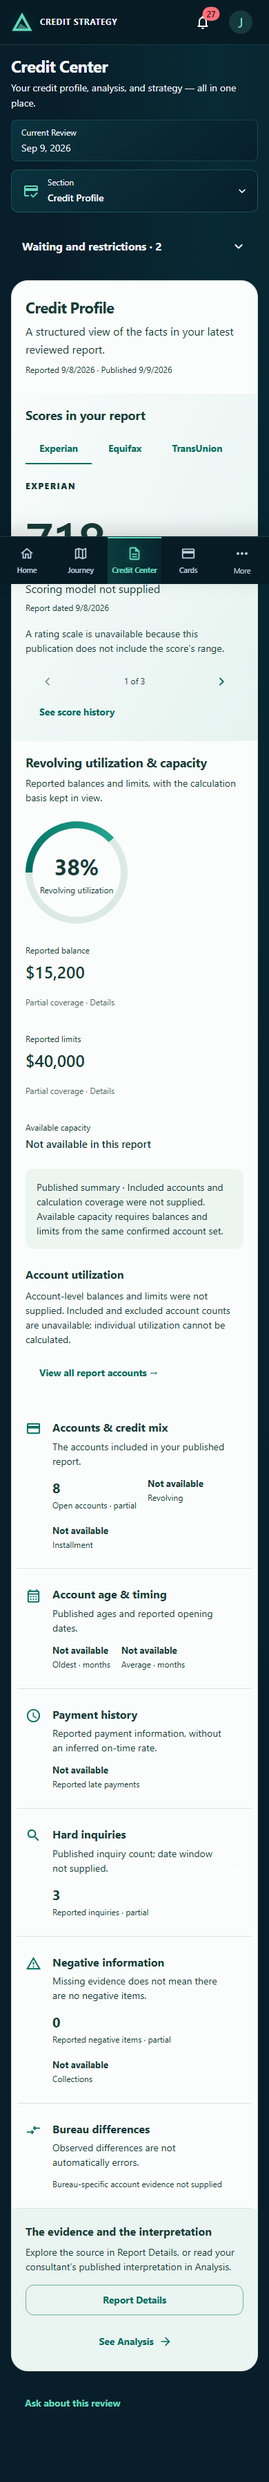
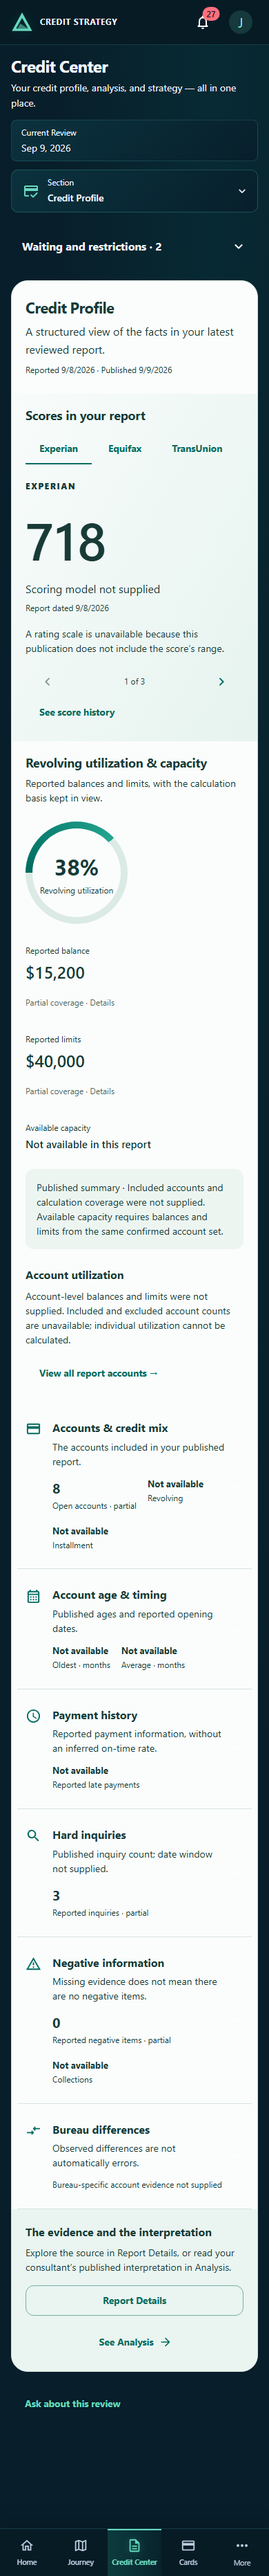
Record complete UI-F04 visual review evidence

diff --git a/docs/evidence/ui-credit-profile/README.md b/docs/evidence/ui-credit-profile/README.md
@@ -1,0 +1,50 @@
+# UI-F04 — Credit Profile implementation evidence
+
+Visual Review Status: READY FOR FINAL VISUAL REVIEW
+
+Branch: `ui/credit-profile`, created from approved `ui/portal-shell-credit-center-overview` at `33610fa43c94b76f0018fa76972dd6b3847a3ab5`.
+Implementation commit: `36a1b1fba53d2659cfd03edcec38a565f2b34db0`. Subsequent evidence-only commit replaces desktop full captures with expanded-viewport captures; application code is identical.
+
+Canonical package: https://docs.google.com/document/d/1E8wm4B2cAxvVPg8UIPdPAhzODh1YmMI-wSne4U5tMA4/edit
+
+## Implemented
+
+Scoped light factual reading plane, one focal bureau score with button/swipe/arrow-key controls, expanded utilization, summary-visible independent disclosures, conditional attributed source factors, deep-link expansion/focus, and Report Details/Analysis continuation. Existing published read, currentness, historical fallback, shell, navigation and query invalidation are retained. No schema/API/publication changes or production fallback fixtures.
+
+Source files: `CreditProfile.tsx`, `CreditData.tsx`, `ProfileUtilization.tsx`, `ProfileEvidence.tsx`, `CreditProfile.test.tsx` in `apps/web/src/features/credit-center/`, plus Profile-only integration in `apps/web/src/pages/PublishedCreditCenterPages.tsx`.
+
+## Validation
+
+- Targeted Vitest: **44 passed**, five files: CreditProfile, CreditExperience, CreditCenterShell, CreditNavigation, PublishedCreditCenterPages.
+- `pnpm --filter @credit/web build`: passed (TypeScript + Vite).
+- ESLint for all six changed source/test files: passed.
+- `git diff --check`: passed.
+- Browser: focal score keyboard selection; independent disclosures; deep link opens/focuses; inherited mobile Section menu has six destinations and restores focus; no overflow at 360/390/768/1199/1200/1440; no draft/internal fields exposed; stale snapshot retained; no browser errors. See `browser-results.json`.
+- No full web regression, API suite, provider suite or domain matrix run.
+
+## Screenshot ledger
+
+All routes are `/app/credit-center/profile`. Populated captures use the isolated local synthetic client's actual published read. Fixtures are browser-response overrides only, with no database mutations. Full desktop/mobile captures use taller viewports to include the complete internal scrolling pane; width-based responsive behavior is unchanged.
+
+| File | Viewport | State |
+| --- | --- | --- |
+| desktop.png | 1440×1000 | Current published Profile, partial summary coverage |
+| desktop-full.png | 1440×2881 | Complete desktop Profile |
+| mobile.png | 390×844 | Current published Profile |
+| mobile-full.png | 390×3722 | Complete mobile Profile |
+| desktop-disclosure-open.png | 1440×3192 | Accounts & credit mix open |
+| desktop-partial-fixture.png | 1440×2801 | Partial/unknown fixture; supported zero, missing utilization/limit |
+| desktop-stale-fixture.png | 1440×900 | Stale fixture; saved publication retained |
+| desktop-no-review-fixture.png | 1440×900 | No-Review fixture; no empty fact stack |
+| mobile-in-progress-fixture.png | 390×844 (873px full capture) | Unpublished Review in progress; no draft facts |
+| mobile-section.png | 390×844 | Frozen UI-F02 Section selector open |
+
+## Explicit U3 dependencies and reconciliation
+
+The existing adapter returns published summary values with PARTIAL coverage; model/range are null, source factors empty, and accounts/inquiries/negatives null. Accordingly, production account-utilization rows and eligibility counts, normalized mix visual, opening-date timeline, affected-payment summaries, inquiry timeline/window, negative-item details, bureau-specific differences, provider factors and comparable score deltas remain unavailable until richer immutable publication fields exist. The component interfaces preserve a path for those structured fields; no raw domain-table joins or PDF parsing were added.
+
+Available capacity remains unknown while balance/limit account coverage is unconfirmed. Its deterministic calculation requires matching known coverage. No fabricated score grade, on-time percentage, or utilization advice is shown. Post-report updates are not available through this Profile read and are not merged into snapshot facts.
+
+Report Details currently has `accounts` and a combined `inquiries` evidence anchor, but no dedicated payment-history anchor. Payment continues to that existing evidence area rather than inventing a destination or modifying Report Details. Historical Review composition remains the frozen shell's safe History fallback.
+
+UI-F01/UI-F02 and Overview source files are unchanged. Report Details has not been started. Final acceptance remains a human visual review.
